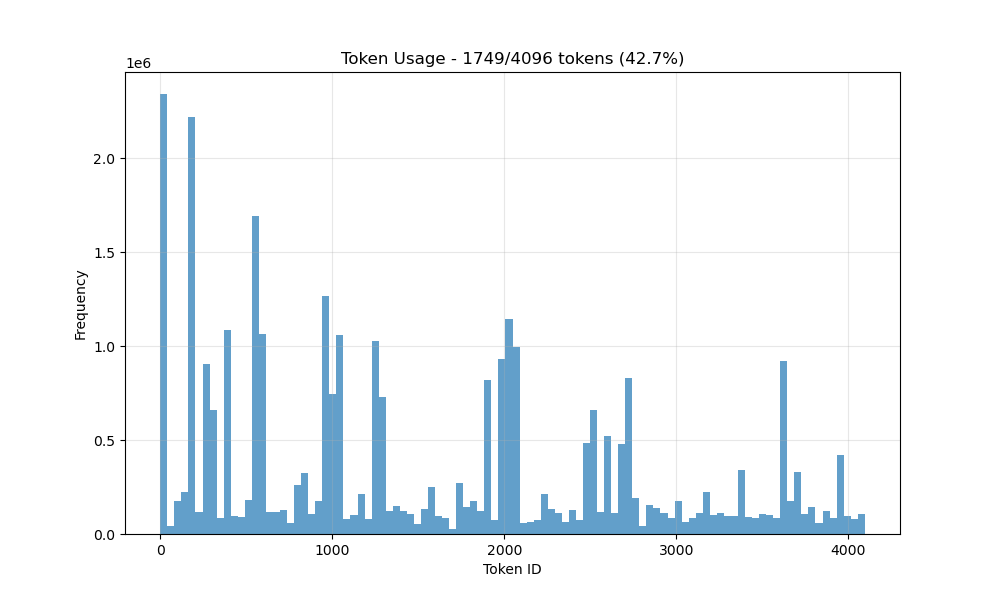
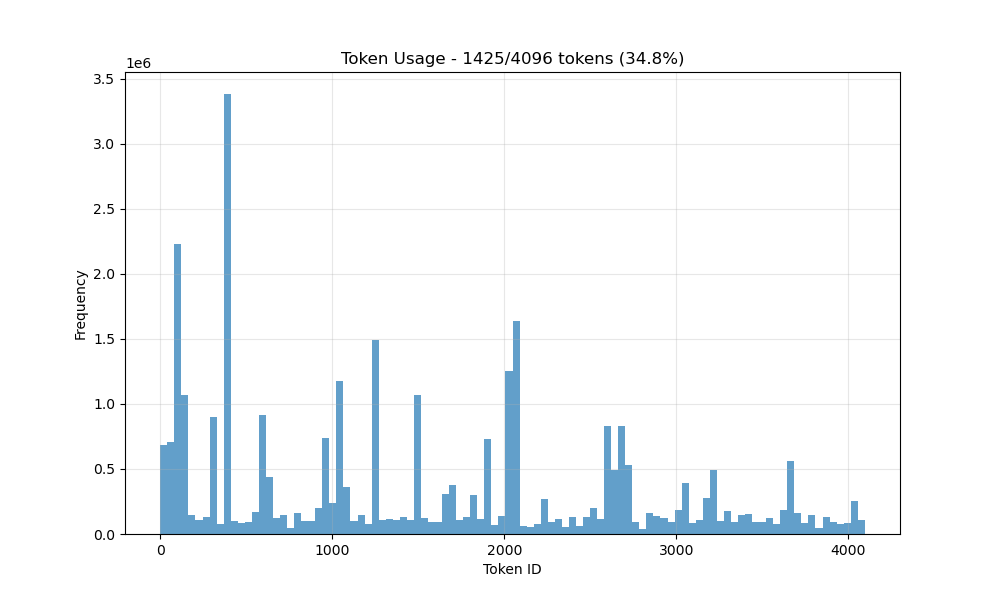
encode and decode

diff --git a/models/MOE.py b/models/MOE.py
@@ -201,6 +201,19 @@ class VQVAENormFormer(nn.Module):
             
         return x_reco, vq_out
 
+    def encode(self,x,mask=None):
+        x = self.input_projection(x)
+        x, _ = self.encoder_normformer(x,mask=mask)
+        z_embed = self.latent_projection_in(x)
+        return z_embed
+    def decode(self,embed,mask=None):
+        z,_ = self.vqlayer(embed)
+        x_recon = latent_projection_out(z)
+        x_recon,_ = self.decoder_normformer(x_recon)
+        x_out = self.output_projection(x_recon)
+        return x_out
+
+
 
 
 def plot_model(model, samples, device="cuda", n_examples_to_plot=200, masks=None, saveas=None):
